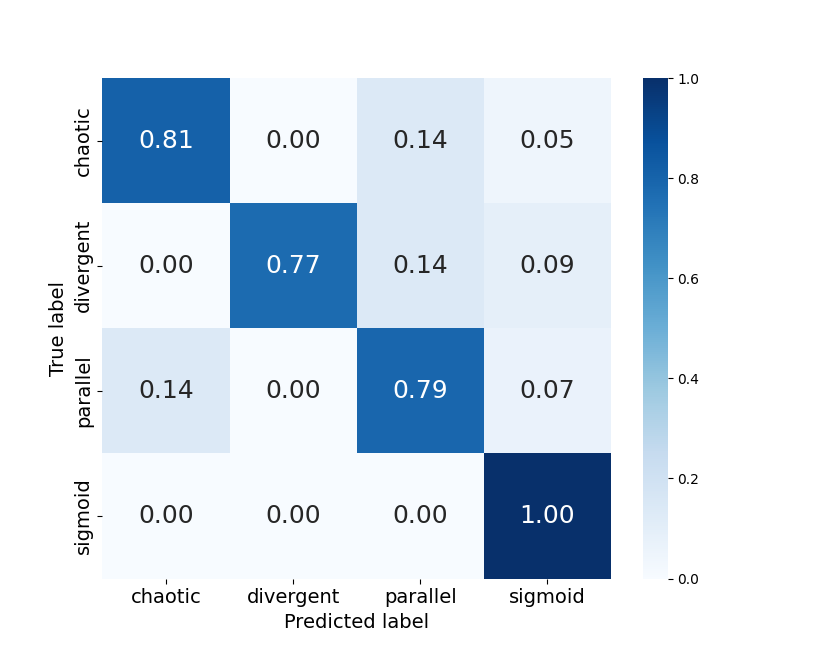
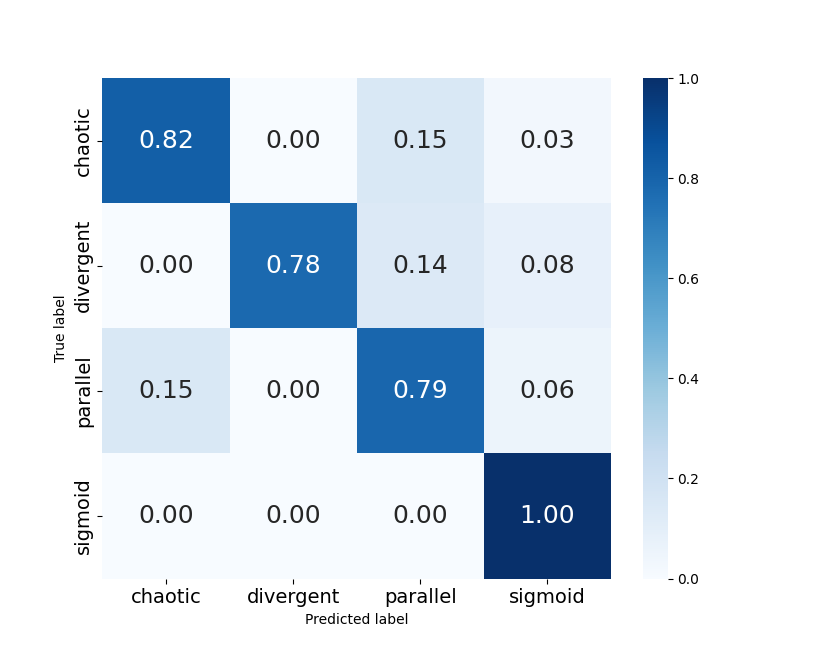
Added a semantic search

diff --git a/search_by_prompt.py b/search_by_prompt.py
@@ -1,0 +1,186 @@
+import torch
+import numpy as np
+import math
+import torch.nn.functional as F
+import matplotlib.pyplot as plt
+from torchvision import transforms
+from numpy._typing import NDArray
+from torchvision.transforms.functional import PILImage
+from dataset import ImageNorm
+from PIL import Image
+from config import BATCH_SIZE, device, CUSTOM_CLIP_FILE
+from models.clip_model import CLIP_DistilBert_ResNet
+
+
+IMG_SIZE = 64
+BATCH_SIZE = 128
+NUMBER_IMAGES_SHOW = 30
+MAX_ZEROES_PART = 0.65
+
+
+def plot_most_similar(closest_images: list[PILImage]):
+    """ Present the top NUMBER_IMAGES_SHOW most similar images
+    in the screen using matplotlib.
+    """
+    n_cols = 5
+    n_rows = math.ceil(len(closest_images) / n_cols)
+    fig, axes = plt.subplots(nrows=n_rows, ncols=n_cols, figsize=(10, 10)) # Creates a 2x2 grid
+
+    for i, ax in enumerate(axes.flatten()):
+        # Convert PIL Image to NumPy array for Matplotlib display
+        ax.imshow(np.array(closest_images[i]))
+        ax.axis('off') # Hide axis ticks for cleaner image display
+    plt.show()
+
+
+def split_volume_in_patches(
+        seismic_vol: NDArray, transformation: transforms.Compose
+        ) -> dict[str, torch.Tensor| list[PILImage]| list[tuple]]:
+    """
+    Splits a 3D seismic volume into image patches and applies a transformation.
+
+    The function extracts 2D slices (or patches) from a 3D seismic volume,
+    converts them into Pillow images, and applies the specified transformation
+    pipeline. The transformed images are stacked into a PyTorch tensor while
+    the original Pillow images are also returned for visualization or inspection.
+
+    Args:
+        seismic_vol (NDArray): A 3D NumPy array representing the seismic volume
+            (inline, xline, depth).
+        transformation (transforms.Compose): A torchvision transformation
+            pipeline applied to each extracted image before stacking them.
+
+    Returns:
+        dict[str, torch.Tensor | list[PILImage] | list[tuple]]:
+            - "patch_tensors" (torch.Tensor): A tensor containing the
+              transformed image patches, (Num_Images, C, H, W).
+            - "patch_images" (list[PILImage]): A list containing the original
+              Pillow images extracted from the seismic volume.
+            - "coordinates" (list[tuple[int, int, int]]): List of 3D coordinates
+              corresponding to each extracted patch, indicating its location in
+              the seismic volume as (inline, xline, depth).
+    """
+    patches_tensors = [] # Images in torch tensor format
+    patches_images = [] # Images in Pillow format
+    coordinates = []
+
+    # Cut the seismic model in multiple patches
+    for il in range(0, seismic_vol.shape[0], 10):
+        # cut image in 64x64 patches 
+        for xl in range(IMG_SIZE, seismic_vol.shape[1], IMG_SIZE):
+            for dep in range(IMG_SIZE, seismic_vol.shape[2], IMG_SIZE):
+                range_xl = range(xl-IMG_SIZE, xl)
+                range_depth = range(dep-IMG_SIZE, dep)
+
+                patch_il = seismic_vol[il,range_xl][:, range_depth].T
+
+                image_patch = Image.fromarray(patch_il).convert('RGB')
+                # Count zeroes in image
+                percent_zero = (np.count_nonzero(patch_il == 0).sum()
+                    / (patch_il.shape[0] * patch_il.shape[1]))
+                # Check if more than 80% of image is empty
+                if percent_zero > MAX_ZEROES_PART:
+                    continue
+
+                # Convert the patch to an image tensor
+                tensor_patch = transformation(image_patch)
+
+                patches_images.append(image_patch)
+                patches_tensors.append(tensor_patch)
+                coordinates.append((il, xl, dep))
+
+    # Convert patches to tensors
+    patches_tensors = torch.stack(patches_tensors, dim=0)
+    return {'patches_tensors': patches_tensors,
+            'patches_images': patches_images,
+            'coordinates': coordinates,}
+
+
+def get_most_similar_images(
+        patches_tensors: torch.Tensor, clip_encoder: CLIP_DistilBert_ResNet,
+        text_embeds: torch.Tensor) -> NDArray[np.int32]:
+    """
+    Rank image patches based on their embedding similarity to a text prompt
+    embedding and return the indices of the most similar patches.
+
+    The function encodes each image patch using the provided CLIP-based encoder,
+    computes a similarity score between the image embeddings and the given text
+    embedding, and ranks the patches according to this similarity.
+
+    Args:
+        patches_tensors (torch.Tensor): Tensor containing the image patches to
+            evaluate. Shape is (N, C, H, W), where N is the number of patches,
+            C is the number of channels, and H and W are the height and width
+            of each patch.
+        clip_encoder (CLIP_DistilBert_ResNet): Model used to generate image
+            embeddings compatible with the text embedding space.
+        text_embeds (torch.Tensor): Text embedding representing the prompt.
+            Shape is (1, D), where D is the embedding dimension of the CLIP model.
+
+    Returns:
+        most_similar_imgs (NDArray[np.int32]): Array containing the indices
+        of the image patches ranked by similarity ordered from highest to
+        lowest similarity.
+    """
+    cos_similarities = []
+
+    with torch.no_grad():
+        # Calc cosine distance between all images
+        for i in range(0, patches_tensors.shape[0], BATCH_SIZE):
+            img_batch = patches_tensors[i : i+BATCH_SIZE].to(device)
+
+            image_embeds = clip_encoder.encode_image(img_batch)
+
+            text_embeds = F.normalize(text_embeds, dim=1)
+            image_embeds = F.normalize(image_embeds, dim=1)
+
+            similarities_batch = image_embeds @ text_embeds.T   # (128, 1)
+
+            cos_similarities.append(similarities_batch.squeeze(1))
+
+        cos_similarities = torch.concat(cos_similarities)
+        # Get indexes from most similar patches
+        most_similar_imgs = torch.topk(
+            cos_similarities, k=NUMBER_IMAGES_SHOW, largest=True, sorted=True,
+        ).indices.cpu().detach().numpy().astype(int)
+
+        return most_similar_imgs
+
+
+def main():
+    path = "C:\\Users\\gustavotorres\\Desktop\\dados\\petrobras\\F3\\F3_amplitude.npy"
+    seismic_vol = np.load(path)
+
+    # Transform the image to the CLIP format
+    transformation = transforms.Compose([
+        transforms.Resize((96, 96)),
+        transforms.ToTensor(),
+        ImageNorm()
+    ])
+
+    # Transform the image to the CLIP format
+    patches_data = split_volume_in_patches(seismic_vol, transformation)
+    patches_images = patches_data['patches_images']
+    patches_tensors = patches_data['patches_tensors']
+
+    # Load the CLIP model
+    clip_encoder = CLIP_DistilBert_ResNet().to(device)
+    clip_encoder.load_state_dict(torch.load(CUSTOM_CLIP_FILE))
+
+    clip_encoder.eval()
+
+    # Enter prompt
+    prompt = input("What seismic images are you searching? ")
+    text_embeds = clip_encoder.encode_text(prompt)
+
+    most_similar_imgs = get_most_similar_images(
+        patches_tensors, clip_encoder, text_embeds
+    )
+    # Show most similar patches on screen
+    plot_most_similar([patches_images[i] for i in most_similar_imgs])
+
+    # TODO: Highlight nos patches dos inlines correspondentes e mostrar inlines
+
+
+if __name__ == "__main__":
+    main()
